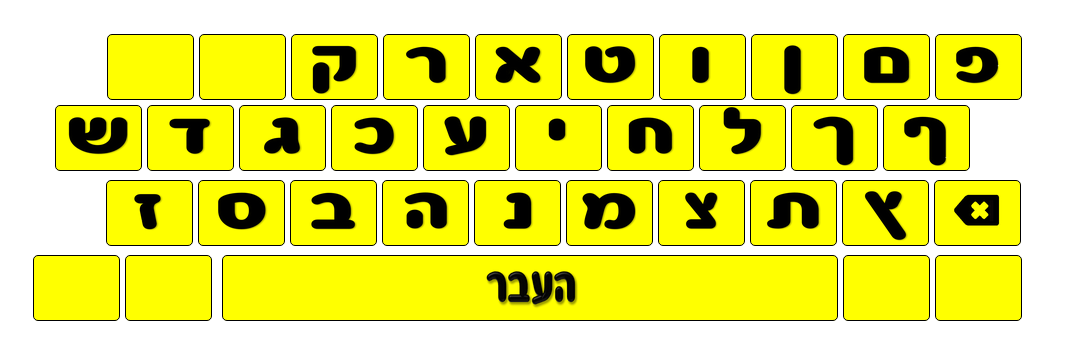
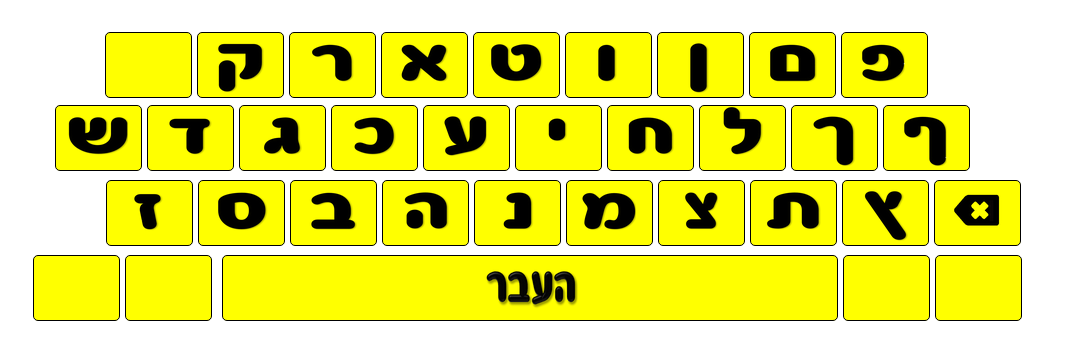
Make the keyboard to look exactly like a real keyboard

Changed region(s): [[0.0914, 0.0917, 0.9446, 0.275]]

diff --git a/public/views/keyboard.html b/public/views/keyboard.html
@@ -10,7 +10,6 @@
             <li><img src="images/lettersNoAnimals/Reish.png"  ng-click="keyPressed('Reish.png')" style="width:60px;height:60px"></li>
             <li><img src="images/lettersNoAnimals/Kuf.png"  ng-click="keyPressed('Kuf.png')" style="width:60px;height:60px"></li>
             <li class="letter special"></li>
-            <li class="letter special"></li>
         </ul>
     </div>
 

diff --git a/public/stylesheets/firstLetter.css b/public/stylesheets/firstLetter.css
@@ -10,6 +10,7 @@ body {
     width: 100%;
 
 }
+
 #write {
     margin: 0 0 5px;
     padding: 5px;
@@ -86,6 +87,10 @@ body {
     cursor: pointer;
 }
 
+.line {
+    margin-left: 100px;
+    display: inline-block;
+}
 
 .line2{
     margin-left: 51px;

diff --git a/public/stylesheets/completeTheWord.css b/public/stylesheets/completeTheWord.css
@@ -131,6 +131,10 @@ body {
     border-color: #e5e5e5;
 }
 
+.line {
+    margin-left: 100px;
+    display: inline-block;
+}
 
 .line2{
     margin-left: 51px;

diff --git a/public/stylesheets/knowTheLetters.css b/public/stylesheets/knowTheLetters.css
@@ -82,6 +82,10 @@ body {
     cursor: pointer;
 }
 
+.line {
+    margin-left: 100px;
+    display: inline-block;
+}
 
 .line2{
     margin-left: 51px;
